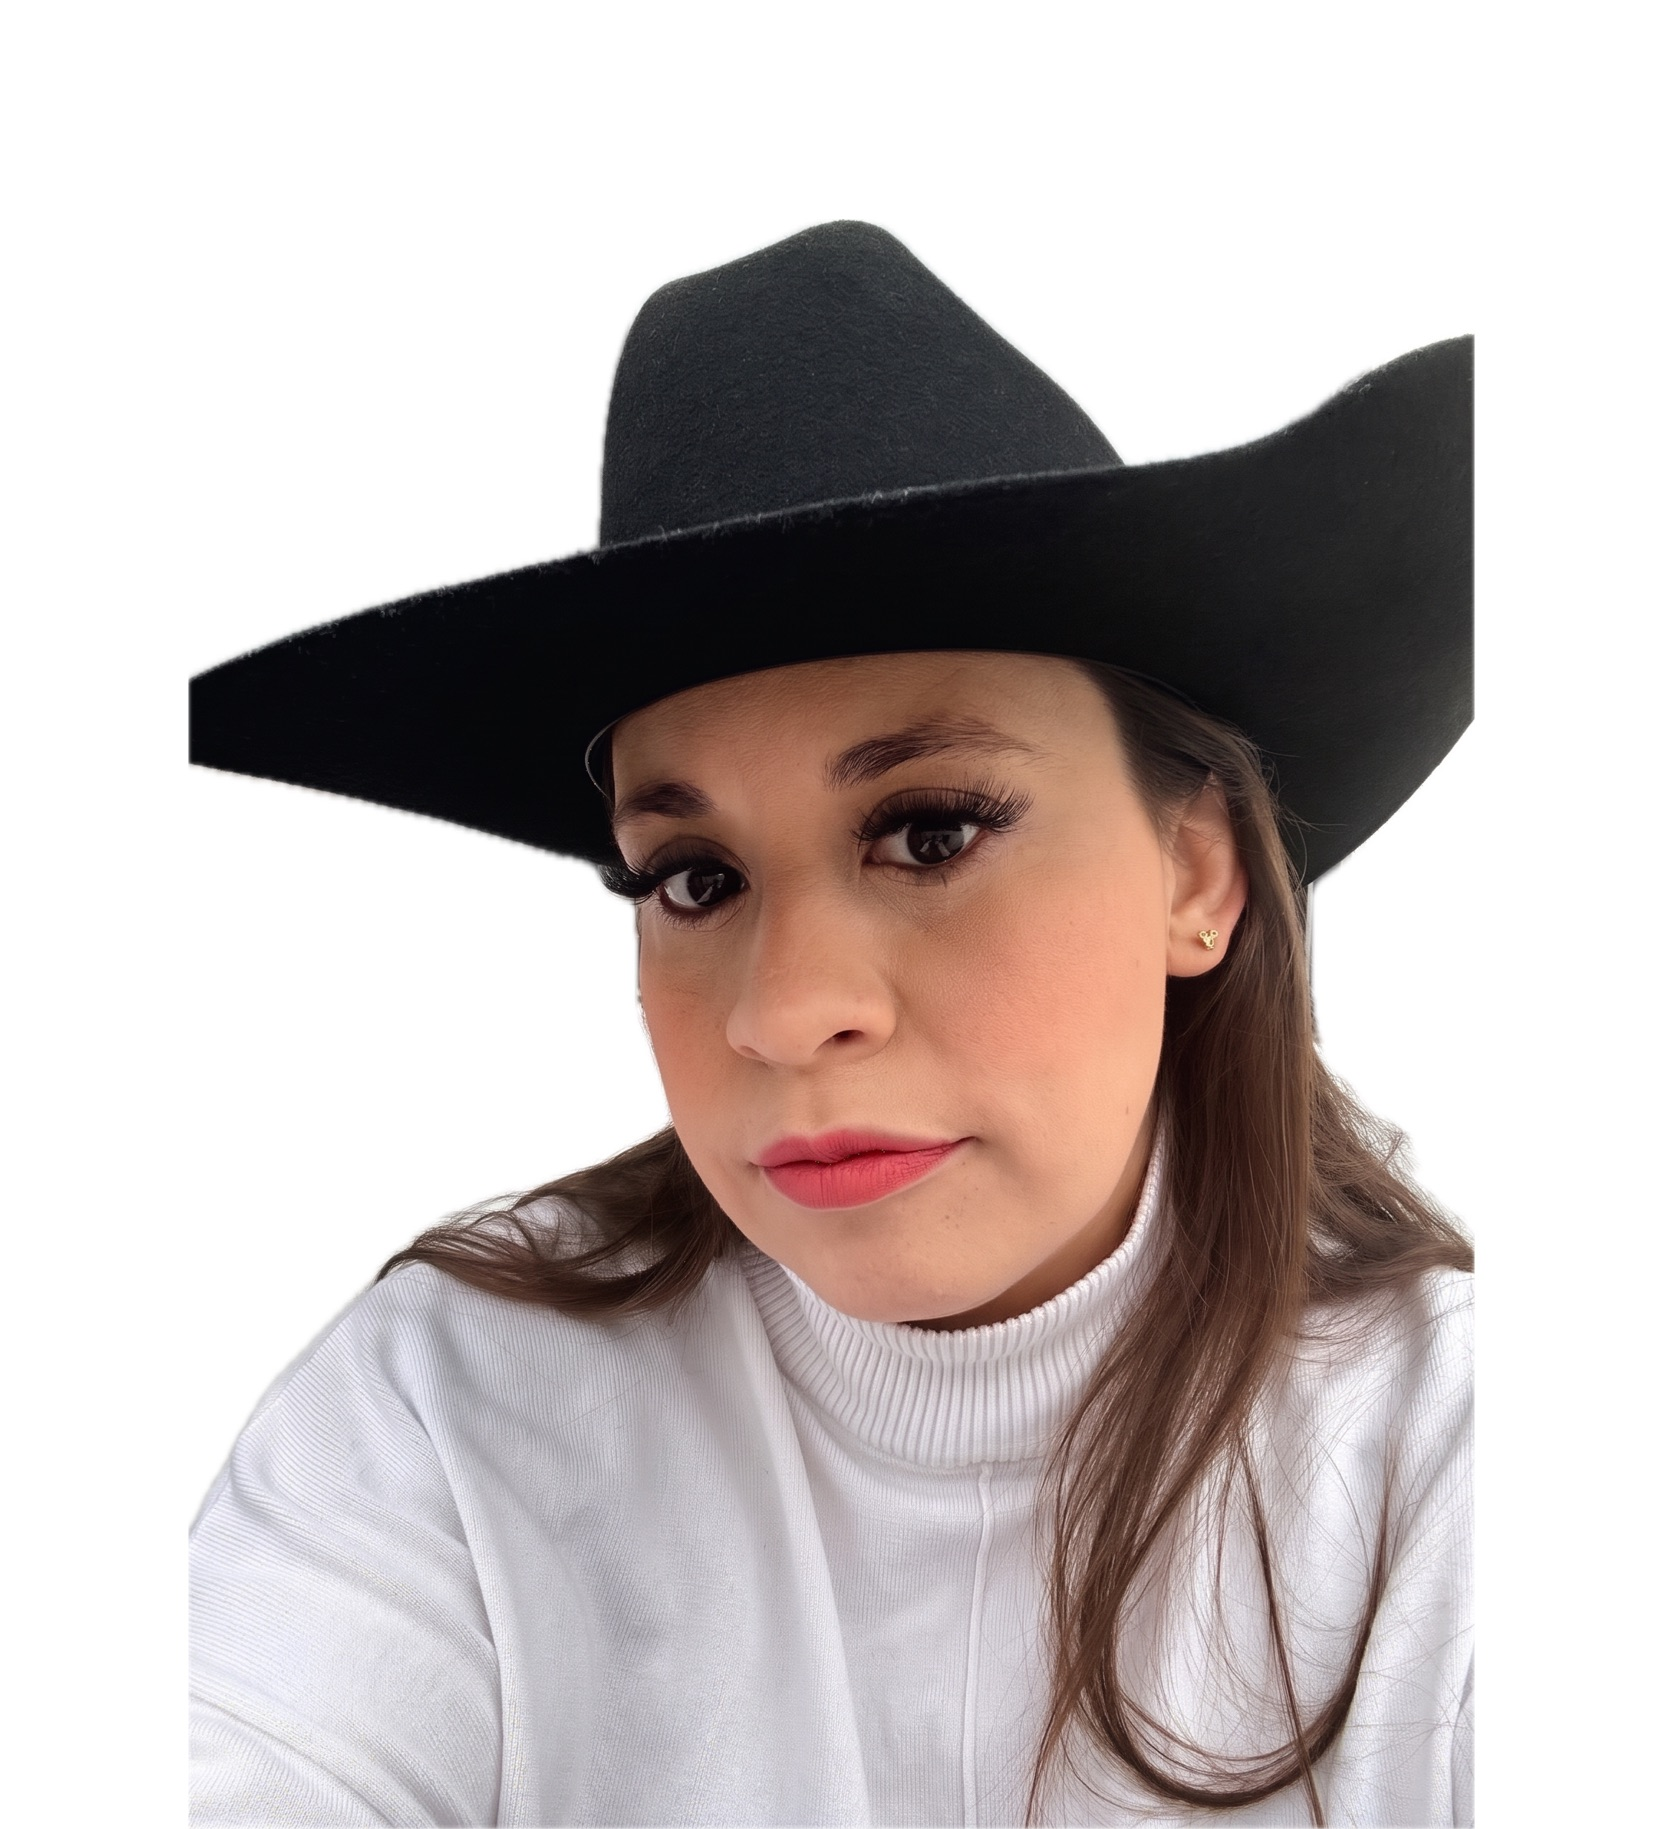
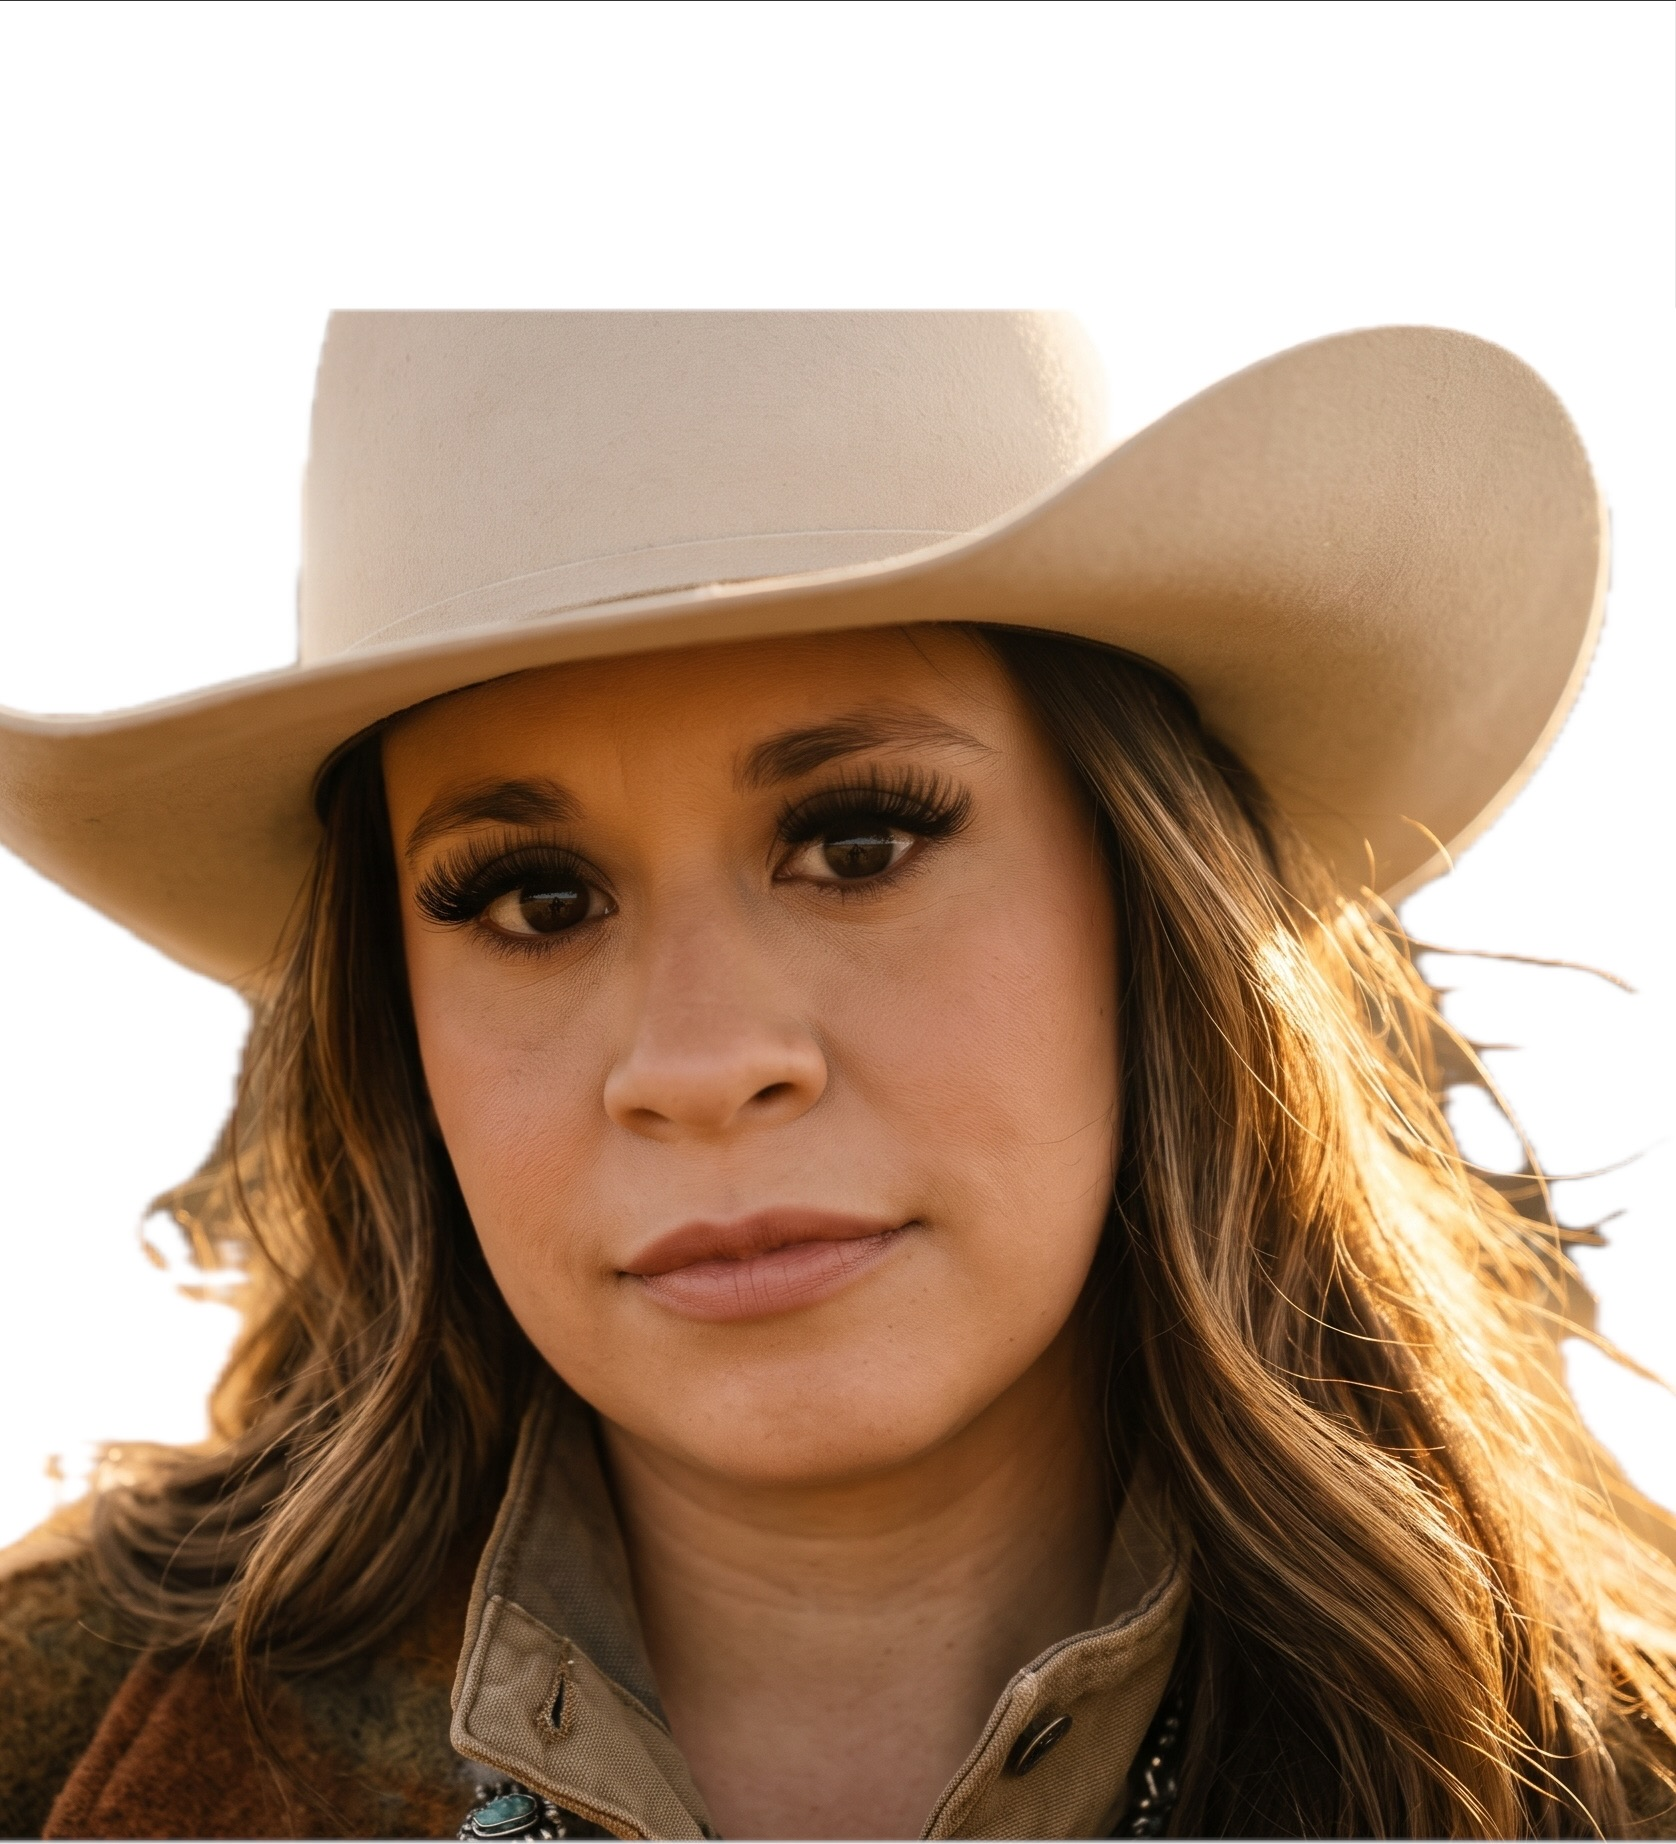
Modo Norteño: nuevas fotos recortadas de Pau y Alan en Cómo nos conocimos

diff --git a/tools/recortar-fondo.swift b/tools/recortar-fondo.swift
@@ -1,0 +1,35 @@
+import Vision
+import CoreImage
+import AppKit
+// uso: recorte <entrada> <salida.jpg>  → sujeto sin fondo sobre blanco, recorte vertical 1663:1829 centrado en el sujeto
+let a = CommandLine.arguments
+let ci = CIImage(contentsOf: URL(fileURLWithPath: a[1]))!
+let ctx = CIContext()
+let cg = ctx.createCGImage(ci, from: ci.extent)!
+let h = VNImageRequestHandler(cgImage: cg)
+let req = VNGenerateForegroundInstanceMaskRequest()
+try h.perform([req])
+let obs = req.results!.first!
+let mask = try obs.generateScaledMaskForImage(forInstances: obs.allInstances, from: h)
+let mci = CIImage(cvPixelBuffer: mask)
+// centroide horizontal del sujeto
+CVPixelBufferLockBaseAddress(mask, .readOnly)
+let w = CVPixelBufferGetWidth(mask), hh = CVPixelBufferGetHeight(mask), rb = CVPixelBufferGetBytesPerRow(mask)
+let base = CVPixelBufferGetBaseAddress(mask)!
+var sx = 0.0, sm = 0.0, minX = w, maxX = 0
+for y in stride(from: 0, to: hh, by: 4) { let row = base.advanced(by: y*rb).assumingMemoryBound(to: Float32.self)
+  for x in stride(from: 0, to: w, by: 4) { let v = Double(row[x]); sx += v*Double(x); sm += v; if v > 0.5 { minX = min(minX, x); maxX = max(maxX, x) } } }
+CVPixelBufferUnlockBaseAddress(mask, .readOnly)
+let cx = sx / max(sm, 1)
+let blanco = CIImage(color: .white).cropped(to: ci.extent)
+let comp = ci.applyingFilter("CIBlendWithMask", parameters: [kCIInputBackgroundImageKey: blanco, kCIInputMaskImageKey: mci])
+let r = 1663.0 / 1829.0
+let iw = ci.extent.width, ih = ci.extent.height
+var W = Double(maxX - minX) * 1.08
+var H = W / r
+H = max(ih, min(H, ih * 1.2)); W = H * r
+let x0 = min(max(Double(minX + maxX) / 2 - W / 2, 0), max(iw - W, 0))
+let lienzo = CIImage(color: .white).cropped(to: CGRect(x: 0, y: 0, width: W, height: H))
+let out = comp.transformed(by: CGAffineTransform(translationX: -x0, y: 0)).composited(over: lienzo).cropped(to: lienzo.extent)
+try ctx.writeJPEGRepresentation(of: out, to: URL(fileURLWithPath: a[2]), colorSpace: CGColorSpaceCreateDeviceRGB(), options: [kCGImageDestinationLossyCompressionQuality as CIImageRepresentationOption: 0.85])
+print("ok", Int(W), Int(H), minX, maxX)

diff --git a/js/i18n.js b/js/i18n.js
@@ -91,7 +91,7 @@
   }
 
   // Modo Norteño: fotos con texana (el banner cambia por CSS) + botón "Tu canción, mi reina" (mp3 local)
-  var FOTOS_NORTENAS = { 'img/IMG_2317.jpg': 'img/norteno/alan.jpg', 'img/DSD_0214.jpg': 'img/norteno/pau.jpg' };
+  var FOTOS_NORTENAS = { 'img/IMG_2317.jpg': 'img/norteno/alan.jpg?v=2', 'img/DSD_0214.jpg': 'img/norteno/pau.jpg?v=2' };
   function nortenos(si) {
     document.body.classList.toggle('modo-norteno', si);
     Object.keys(FOTOS_NORTENAS).forEach(function (orig) {

diff --git a/index.html b/index.html
@@ -1171,6 +1171,6 @@
 <script src="js/vendor/ouical.js"></script>
 <script src="js/scripts.min.js?v=20261025"></script>
 <script src="js/rsvp.js?v=20261121b"></script>
-<script src="js/i18n.js?v=20261122a"></script>
+<script src="js/i18n.js?v=20261122b"></script>
 </body>
 </html>
